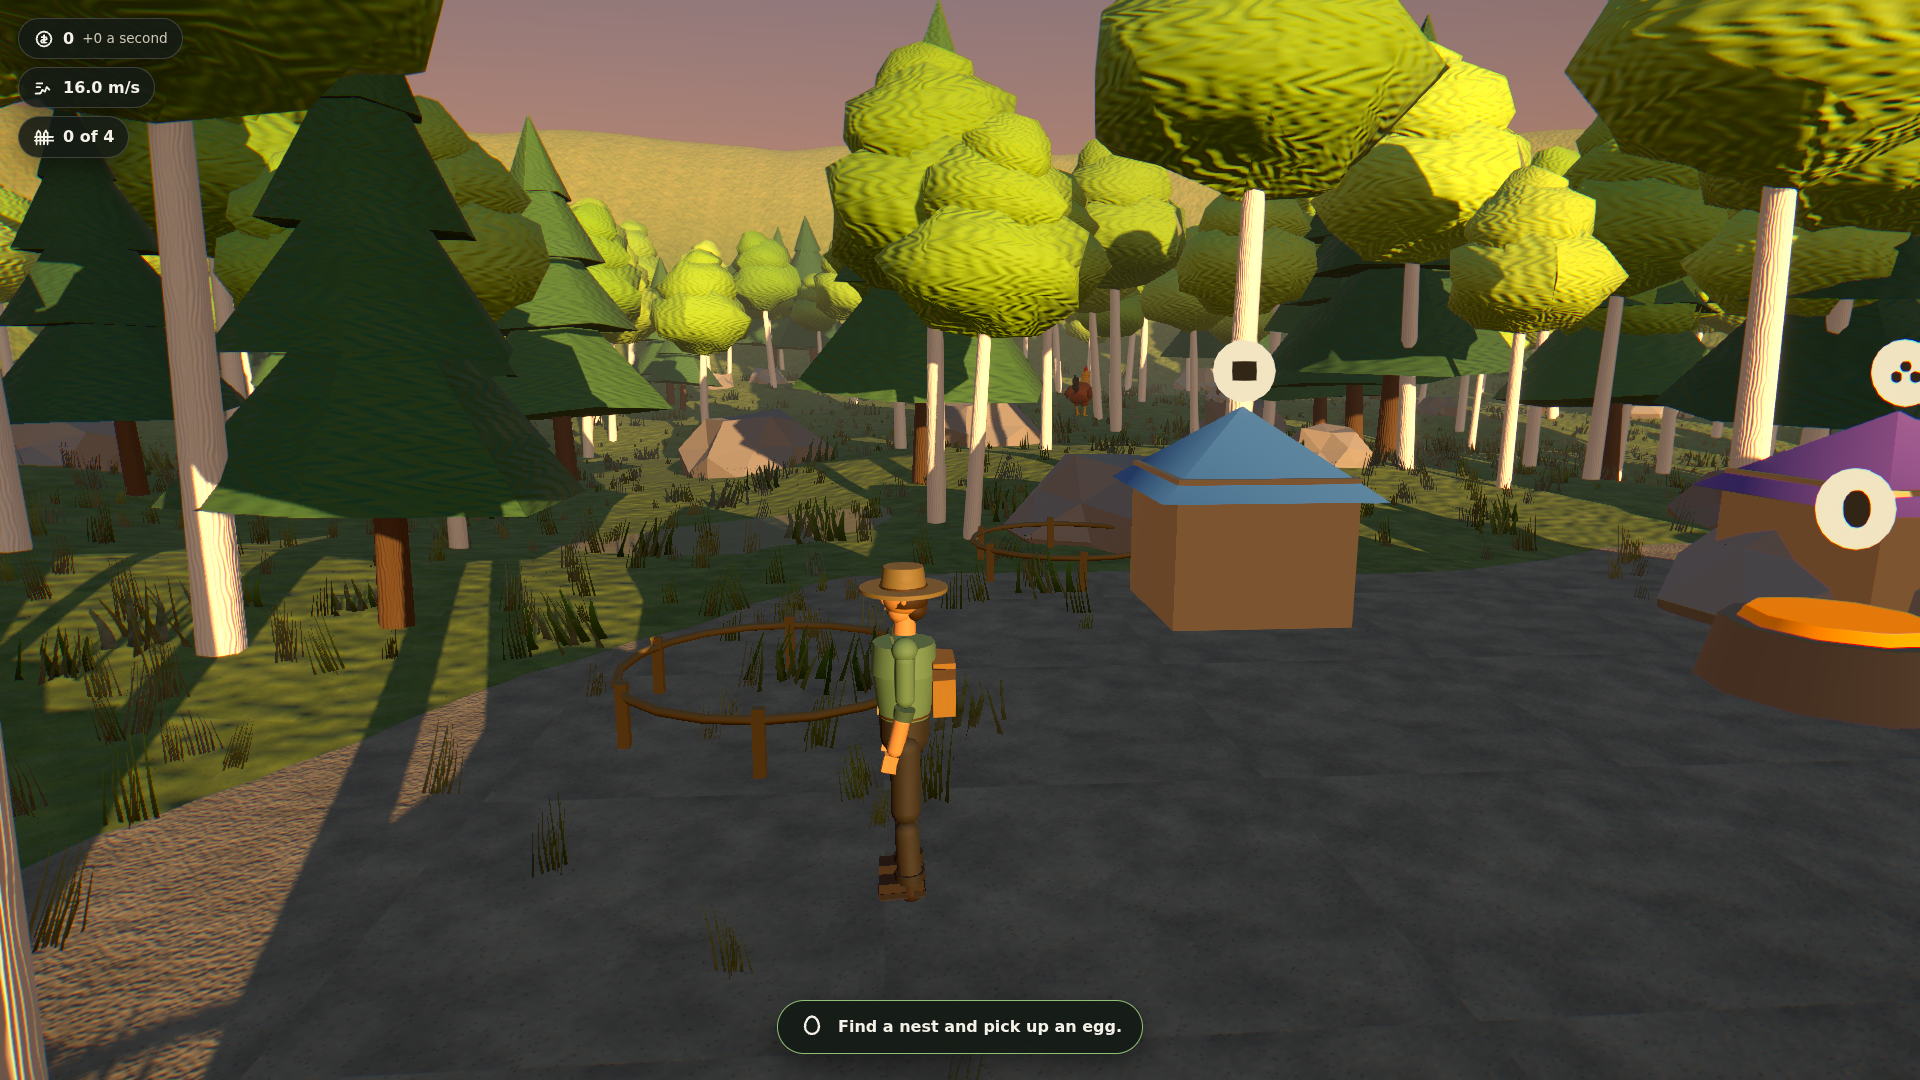
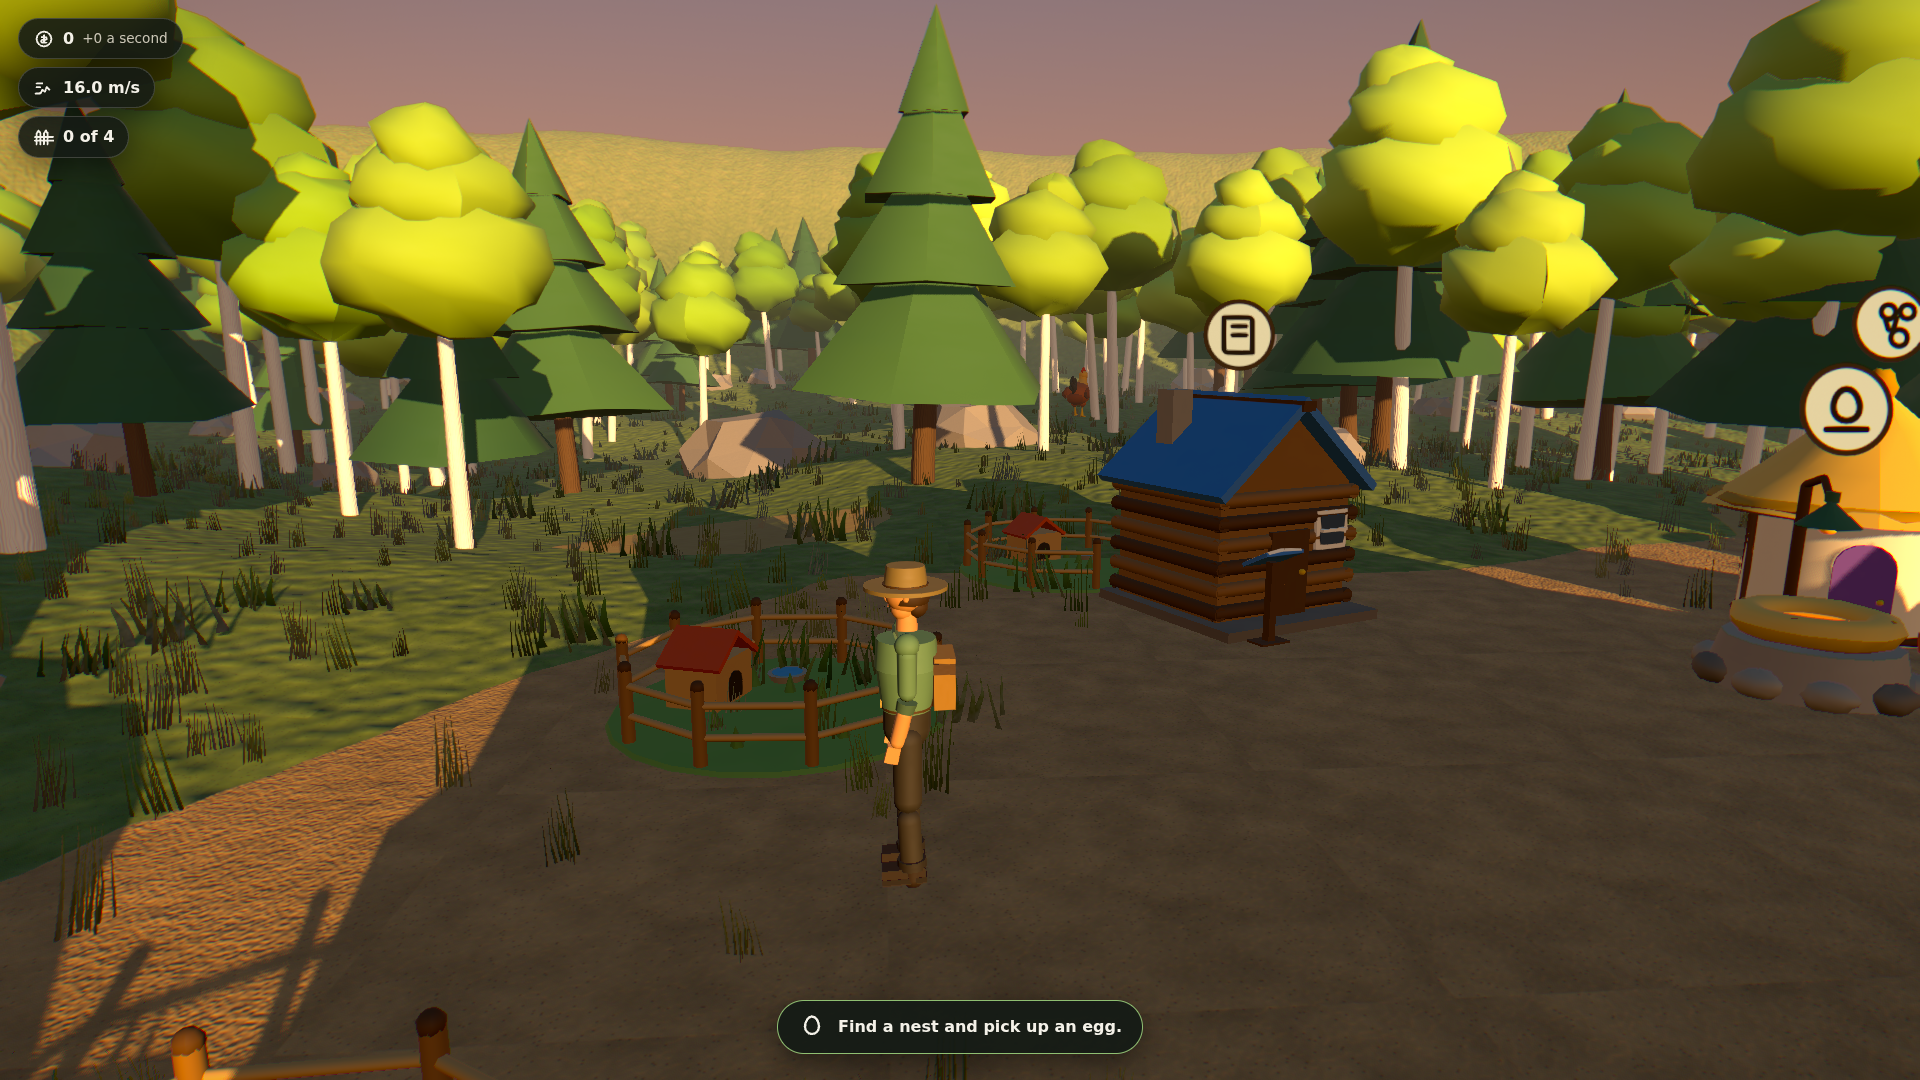
docs: record the sanctuary pass and refresh the shots
Claude-Session: https://claude.ai/code/session_01S8vggPtgU2EjQxnnYdffEr

diff --git a/DECISIONS.md b/DECISIONS.md
@@ -655,6 +655,20 @@ on screen, and a third bar on a laptop-height window reaches the middle of the
 frame where the player is. Short screens get tighter padding, never smaller
 text.
 
+### Captions: the warning outlasts the news
+
+Capping the track at two lines had a cost the chase gate found. On a snatch
+under a guardian's nose, the chase warning is raised a hair before the egg
+caption on the same frame, and the tumble follows half a second later. Evicting
+strictly by age dropped "A guardian is chasing you!" — the one line a player
+who cannot hear the sting needs. Danger cues are now marked `urgent`, and when
+the track is full the oldest ordinary line goes first.
+
+The gate also turned up two cues firing for that one moment: the threat-level
+change played "A guardian has spotted you!" and the loop's chase event played
+"A guardian is chasing you!", two sounds and two captions for one event. The
+first was the older duplicate and has been retired.
+
 ## The guardians, rebuilt as animals
 
 The guardians came out of the same parametric builder as the collectable
@@ -706,6 +720,86 @@ with more on screen than before.
 The collectable creatures still use the parametric builder. They are small,
 seen close up in the habitats, and a data-driven species list is worth more
 there than a bespoke silhouette.
+
+## The sanctuary, rebuilt as a place
+
+After the guardians, the most-seen programmer art was the sanctuary. It is the
+first thing on screen every session and the place every heist ends. Four of the
+five stations were the same beige box under a four-sided cone, told apart only
+by roof colour. The fifth was an orange disc on a stump. Each had a white disc
+floating over it with a glyph built from two or three primitives, and at any
+distance those read as a disc with a smudge. The clearing under them was
+tarmac-grey in the Glade.
+
+Each station is now something you would recognise without its sign
+(`src/render/world/stationMesh.ts`):
+
+- **Incubator:** a straw nest on a ring of fieldstones under a heat lamp. The
+  nest lining and the bulb share the emissive that warms as the egg nears
+  hatching.
+- **Ranger Store:** a market stall with a striped awning, goods on the shelves,
+  a crate and a barrel.
+- **Field Guide:** a log cabin with a chimney and an open book on a lectern.
+- **Breeding Hut:** a round whitewashed hut under a shaggy thatch, with flower
+  pots by an arched door.
+- **Training Track:** a running strip with striped hurdles and a chequered
+  finish arch.
+- **Pens:** a patch of grass, a post-and-rail fence with a gate facing the
+  clearing, a little red-roofed hutch and a water bowl. An empty pen has to
+  look like somewhere a creature would want to live, because an empty pen is
+  the reason to go and fetch another egg. The first hutch was a lean-to — a
+  slab on four legs — and it read as a picnic table.
+
+Every building turns to face the centre of the clearing. Their colliders turn
+with them, except the incubator's. The incubator sits beside the walk to nest
+zero, and a box turned to face the centre would swing a corner into that lane.
+
+The signs are now the HUD's own icons, drawn from the same path data
+(`ui/iconPaths.ts`) onto a canvas badge, so the bag on the store is the bag in
+the prompt. That is one draw per sign instead of up to four.
+
+Each station is one vertex-coloured buffer on one shared material. The five
+old huts cost two or three draws each before their signs.
+
+`tests/unit/stations.test.ts` asserts:
+
+- every sign clears its own roof — the first draft of the incubator's sign sat
+  on its lamp arm, and the test caught it;
+- the five silhouettes differ;
+- nothing is pure black or white;
+- every pen has a gate.
+
+With the guardians and the stations both baked, High is at 261 draw calls,
+down from 373 at the start of the pass, and Low at 126. Triangles rose from
+793k to 876k at High, well inside the 1.2M budget: this is detail that used to
+cost draws and now costs only vertices.
+
+### The clearing is earth, not tarmac
+
+The clearing was coloured from the biome's cliff colour. The hue was right —
+it is what lies under the grass — but cliff colours are cool, desaturated rock,
+and under a low warm sun the Glade's clearing came out car-park grey. Each biome
+now has a `pathColour` for trodden earth, which is warmer and lighter than rock.
+
+### Trees were growing through the pens
+
+Foliage was kept out of only the middle 5.5 m of an 11 m clearing: at 14 m it
+had swallowed every plant visible from the spawn. So birches stood in the
+walkway between stations, and one grew straight up through a habitat pen.
+Exclusion zones can now be `largeOnly`. Trees, rocks and ruins are kept out of
+the whole clearing, while grass and ferns still fringe it. The scatter and its
+collider twin share one `isExcluded`, so they cannot disagree about where a
+tree stands.
+
+### Bark on the leaves
+
+Every tree is one mesh and one material, and the bark normal map was applied
+to all of it. Its vertical grain, wrapped round a ball of leaves, drew wavy
+zebra stripes across every canopy in the Glade — clearly visible in every
+1080p shot, and the single most "procedural" thing on screen. The shader now
+restores the unperturbed normal on the leaf part of any tree with a trunk, so
+canopies keep the faceting of their own geometry, which is what reads as
+clumps of leaves.
 
 ## Performance — measuring the budget properly
 

diff --git a/README.md b/README.md
@@ -191,8 +191,8 @@ Target: locked 60fps at 1080p on integrated graphics.
 
 | Budget            | Limit           | Measured at High | Measured at Low |
 | ----------------- | --------------- | ---------------- | --------------- |
-| Draw calls        | ≤ 450           | **323**          | 155             |
-| Triangles         | ≤ 1.2M          | **793k**         | 279k            |
+| Draw calls        | ≤ 450           | **261**          | 126             |
+| Triangles         | ≤ 1.2M          | **876k**         | 321k            |
 | Initial JS bundle | ≤ 250KB gzipped | **85KB**         | 85KB            |
 | CPU frame         | ≤ 6ms           | not measured     | not measured    |
 | GPU frame         | ≤ 12ms          | not measured     | not measured    |
